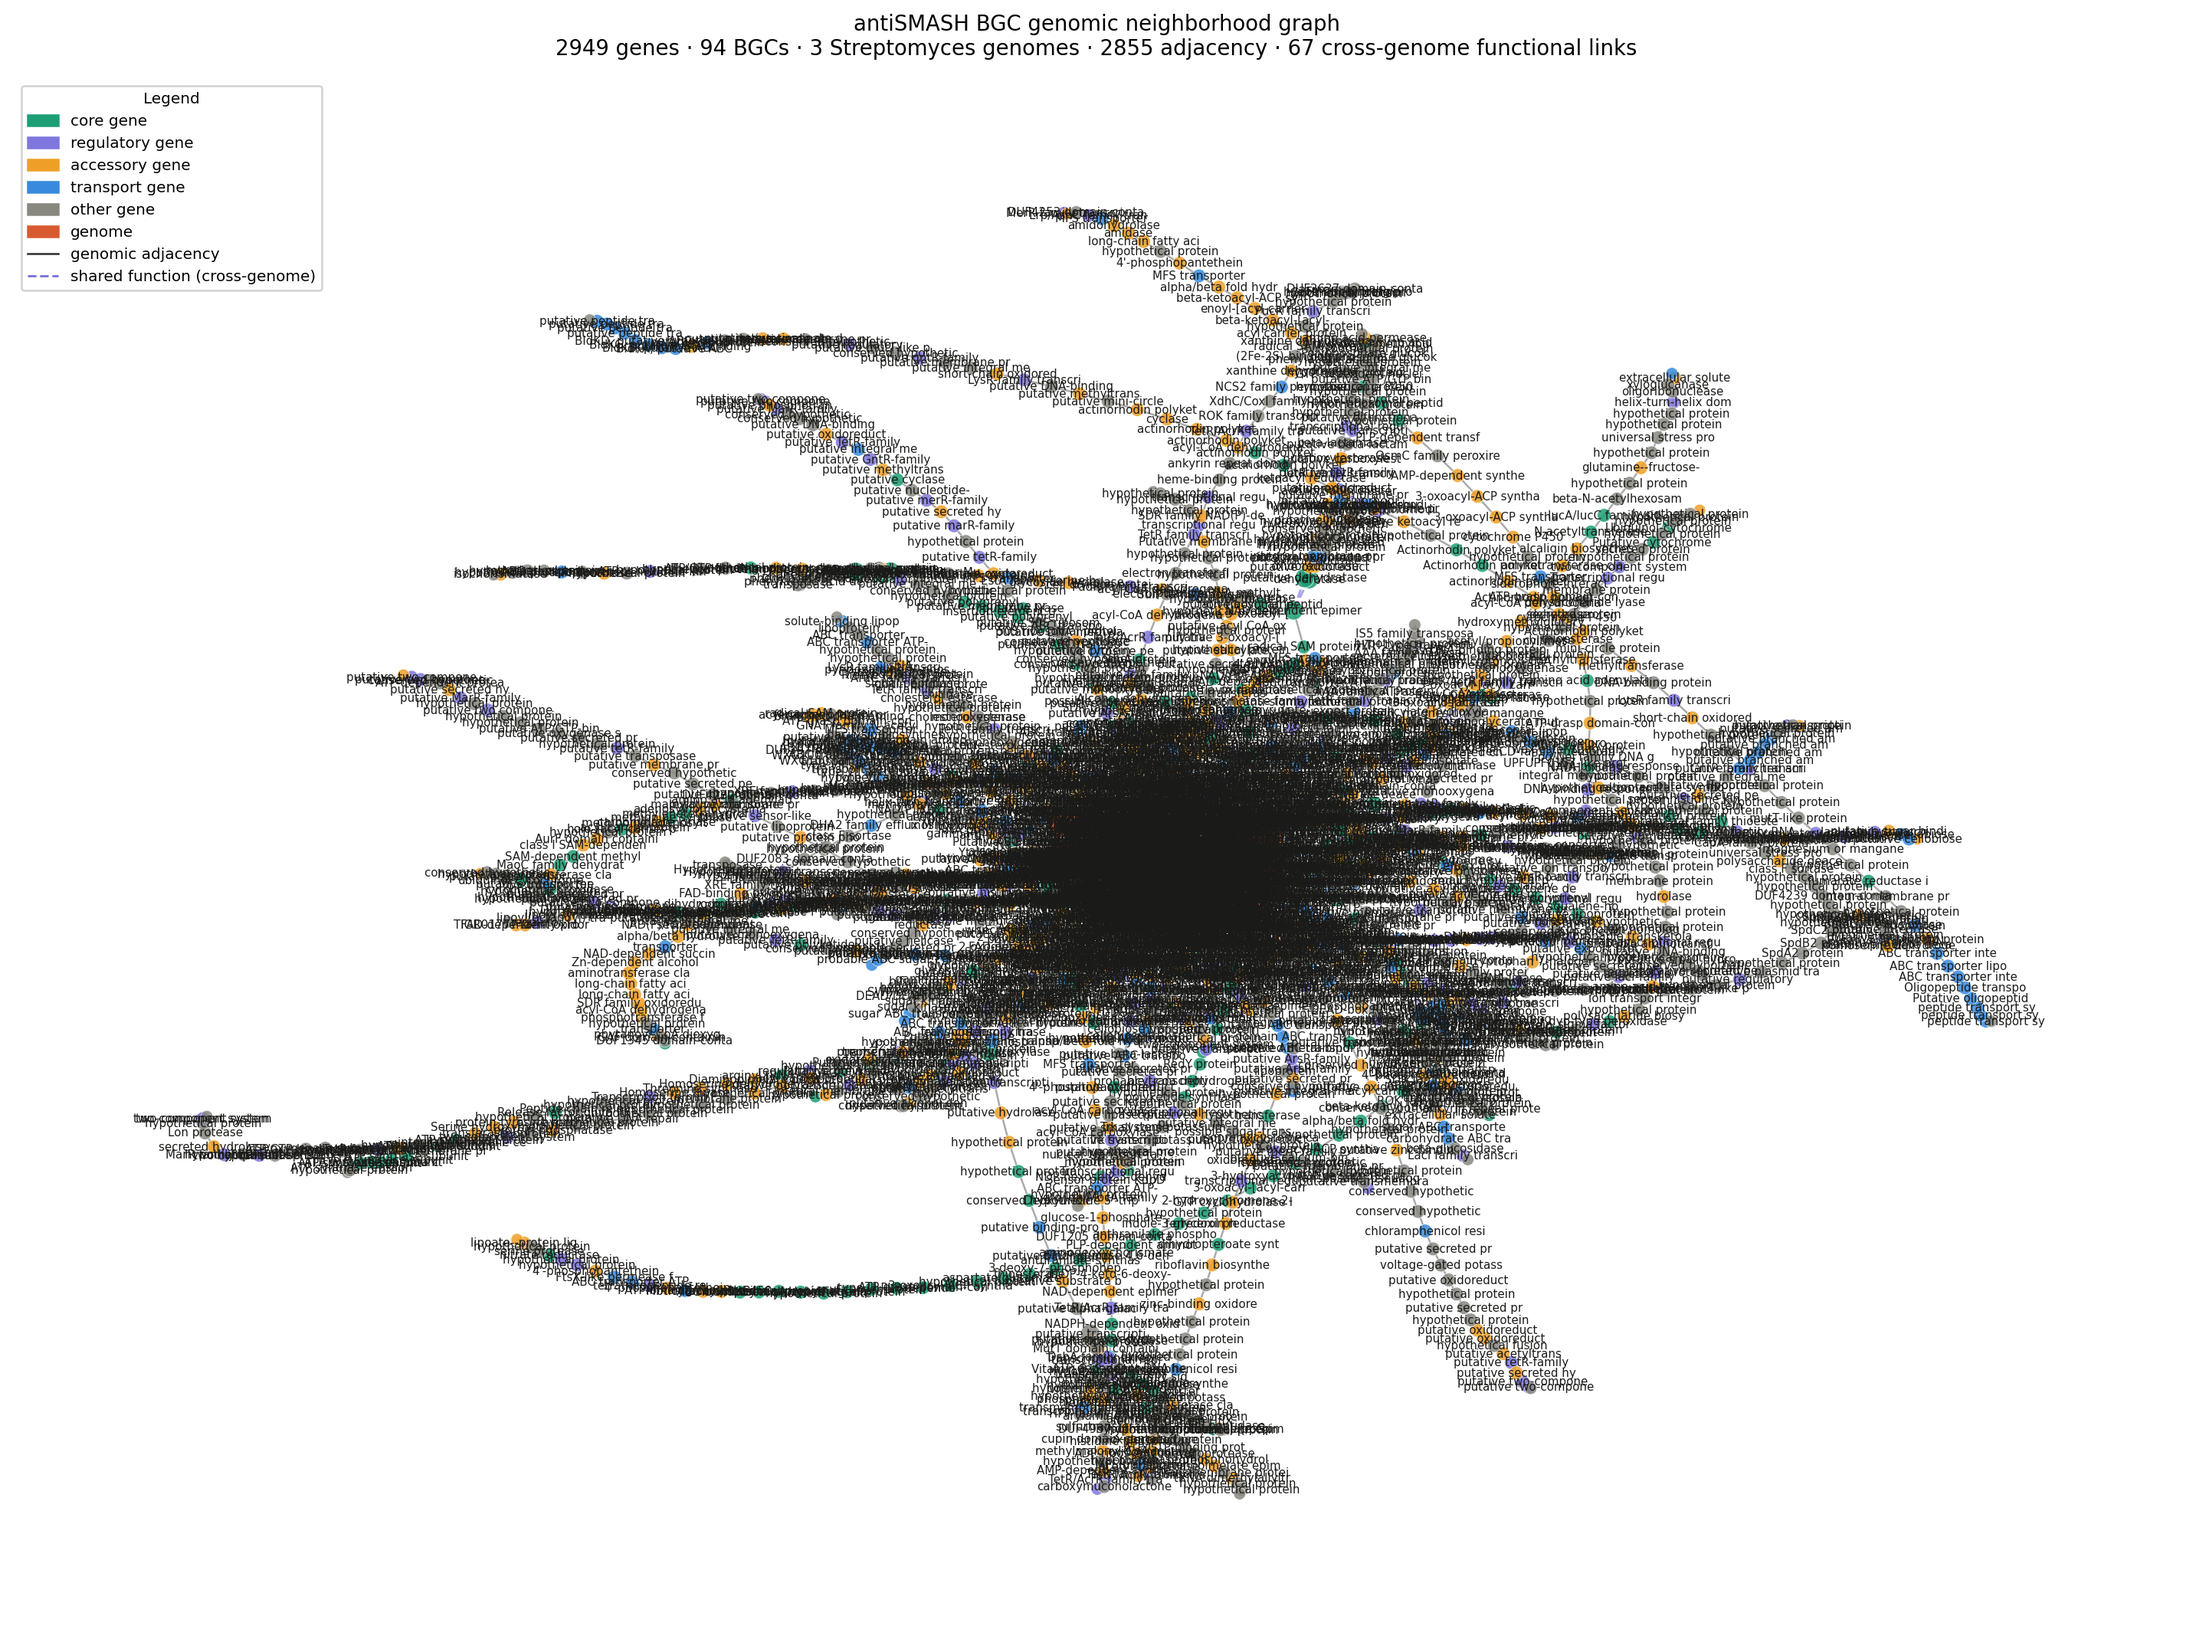
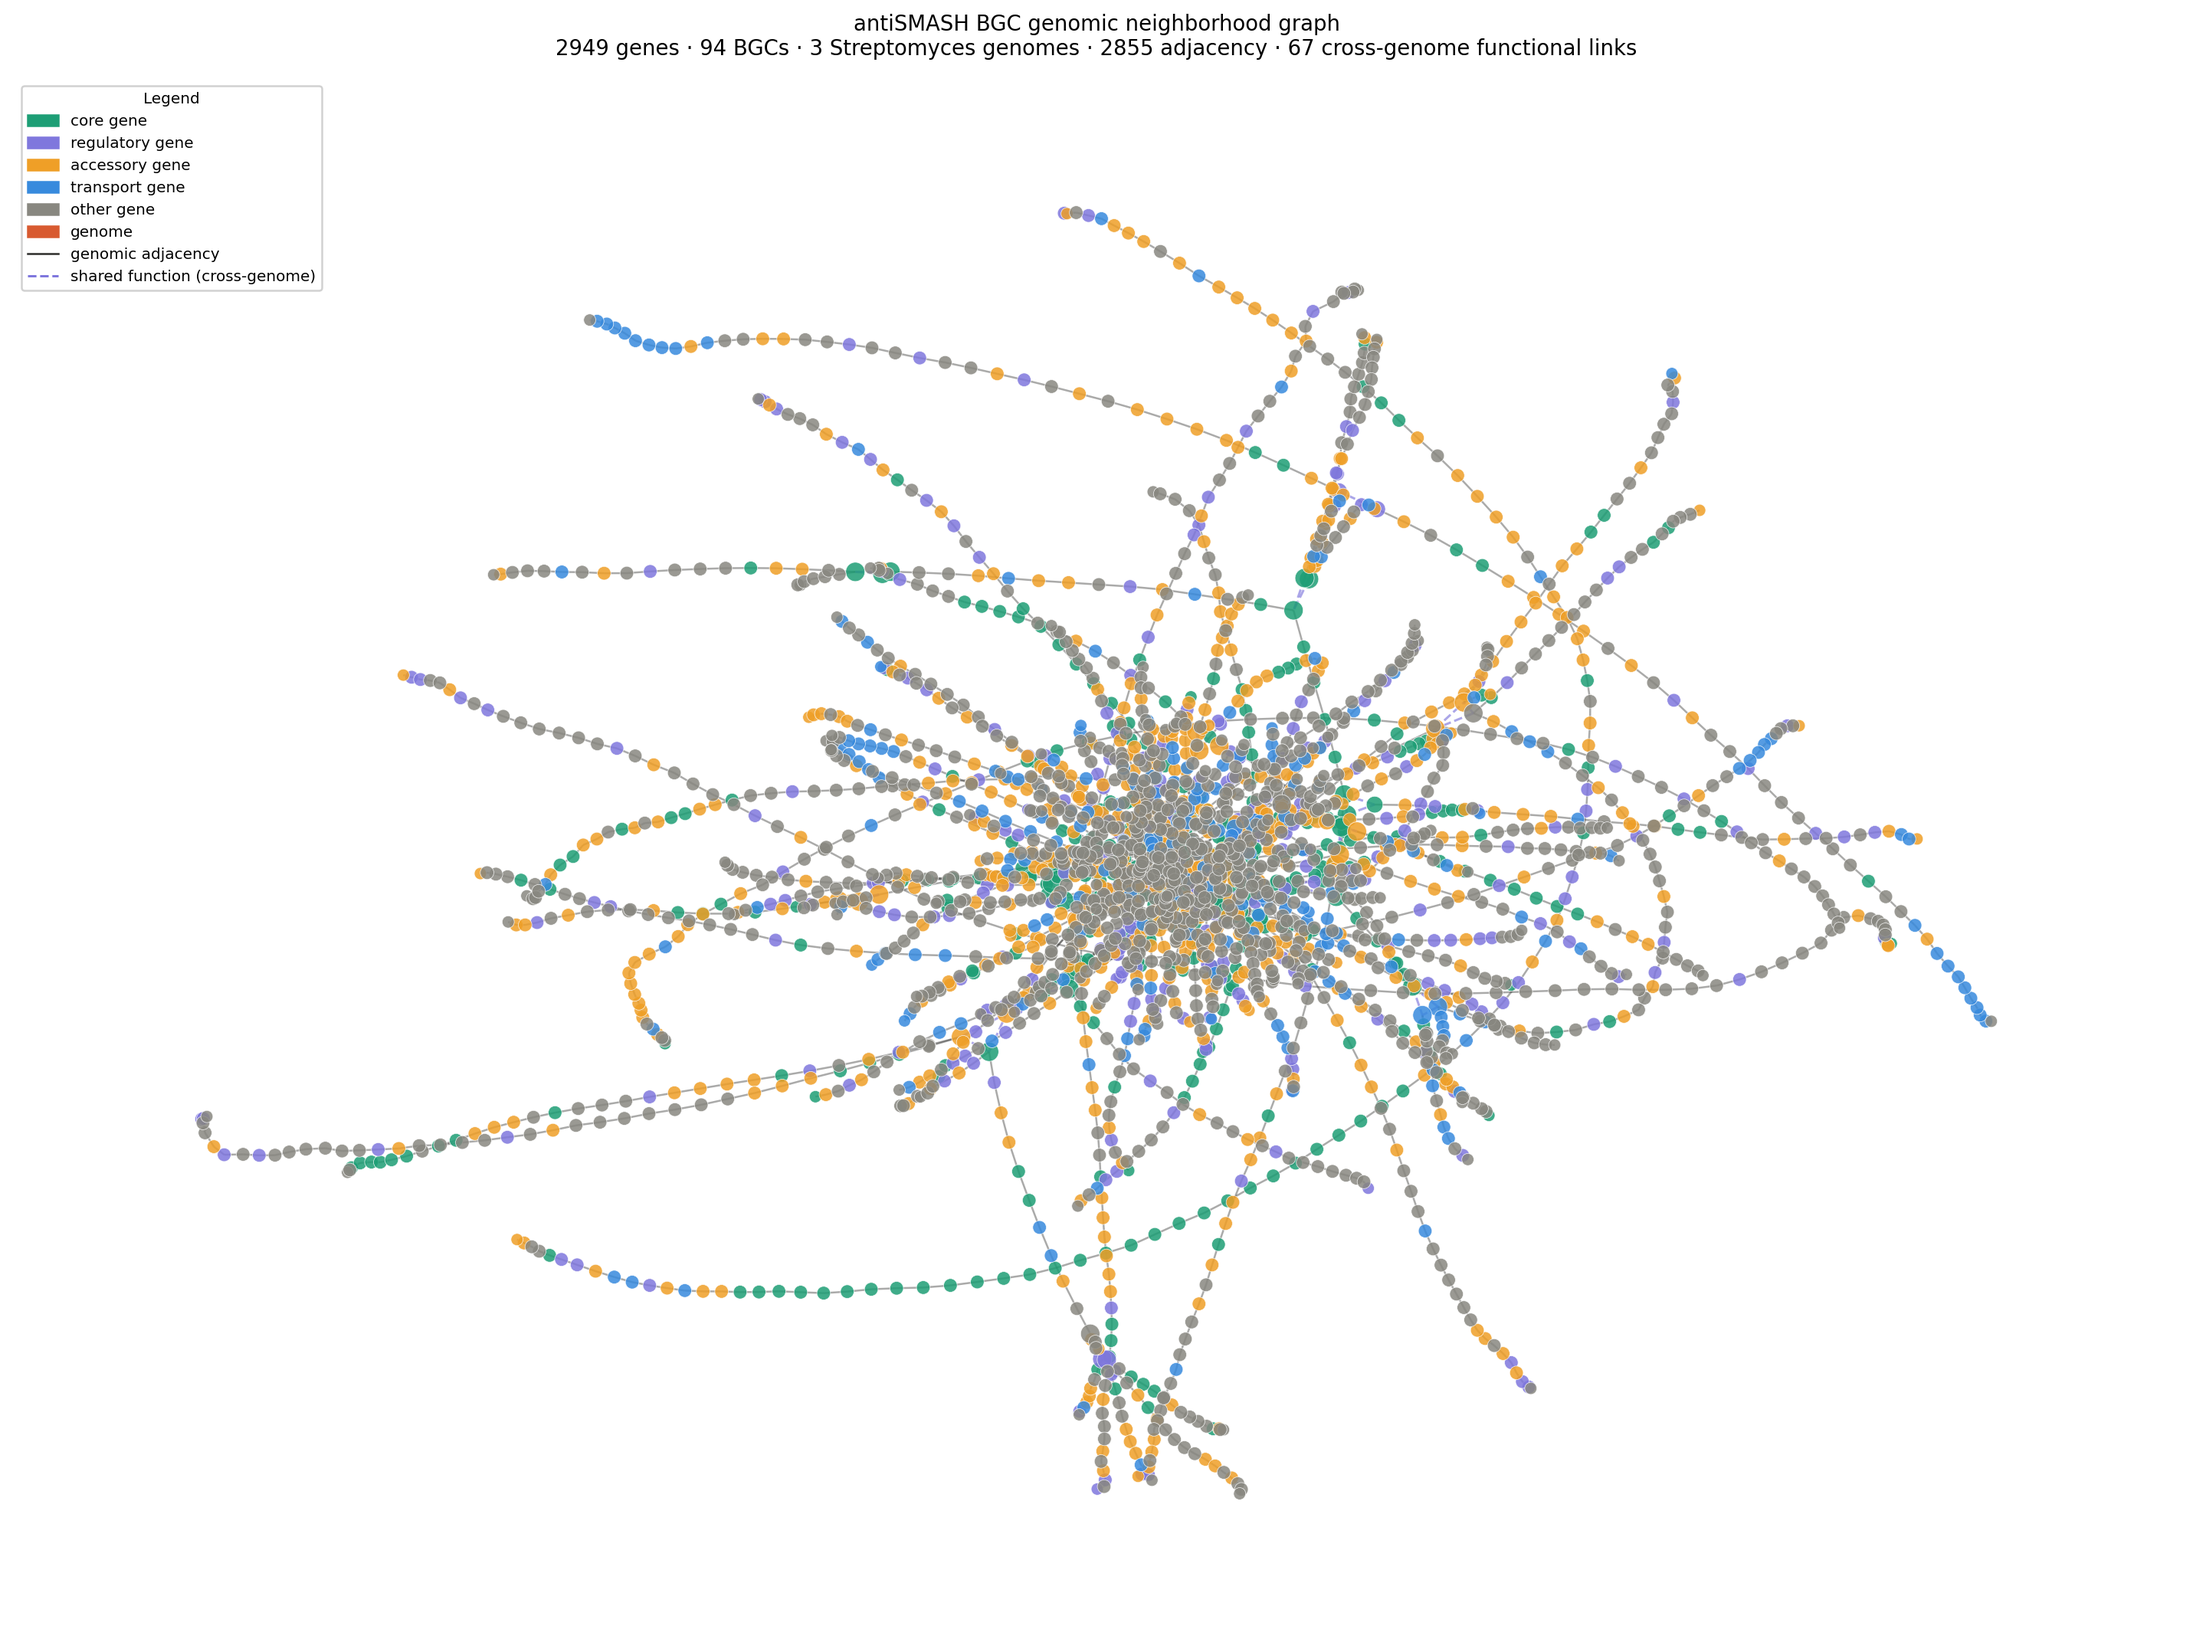
removed labels and genome nodes from static PNG graphs for cleaner viewing

Changed region(s): [[0.0622, 0.154, 0.9329, 0.9239], [0.4665, 0.1232, 0.5287, 0.154]]

diff --git a/05b_antismash_graph.py b/05b_antismash_graph.py
@@ -404,19 +404,21 @@ def export_static(G: nx.Graph, out_path: Path):
                                node_color=color, node_size=sizes,
                                alpha=0.85, linewidths=0.3, edgecolors="white")
 
-    if genome_nodes:
-        nx.draw_networkx_nodes(G, pos, nodelist=genome_nodes, ax=ax,
-                               node_color=GENOME_COLOR, node_size=800,
-                               node_shape="s", alpha=0.95)
-        nx.draw_networkx_labels(G, pos,
-                                labels={n: G.nodes[n]["label"] for n in genome_nodes},
-                                ax=ax, font_size=8, font_color="white", font_weight="bold")
+    # UNCOMMENT TO ADD the 3 GENOME SQUARE NODES WITH LABELS
+    # if genome_nodes:
+    #     nx.draw_networkx_nodes(G, pos, nodelist=genome_nodes, ax=ax,
+    #                            node_color=GENOME_COLOR, node_size=800,
+    #                            node_shape="s", alpha=0.95)
+    #     nx.draw_networkx_labels(G, pos,
+    #                             labels={n: G.nodes[n]["label"] for n in genome_nodes},
+    #                             ax=ax, font_size=8, font_color="white", font_weight="bold")
 
     threshold = np.percentile([degrees[n] for n in gene_nodes], 85) if gene_nodes else 0
-    gene_labels = {n: G.nodes[n].get("product", "")[:20]
-                   for n in gene_nodes if degrees[n] >= threshold}
-    nx.draw_networkx_labels(G, pos, labels=gene_labels, ax=ax,
-                            font_size=6, font_color="#1A1A18")
+    # UNCOMMENT TO ADD LABELS TO STATIC GRAPH
+    # gene_labels = {n: G.nodes[n].get("product", "")[:20]
+    #                for n in gene_nodes if degrees[n] >= threshold}
+    # nx.draw_networkx_labels(G, pos, labels=gene_labels, ax=ax,
+    #                         font_size=6, font_color="#1A1A18")
 
     patches = [mpatches.Patch(color=c, label=f"{r} gene") for r, c in ROLE_COLORS.items()]
     patches += [mpatches.Patch(color=GENOME_COLOR, label="genome"),

diff --git a/05_knowledge_graph.py b/05_knowledge_graph.py
@@ -192,9 +192,10 @@ def export_static(G, out_path):
                                node_color=color, node_size=sizes, alpha=0.85,
                                linewidths=0.4, edgecolors="white")
     threshold = np.percentile(list(degrees.values()), 80)
-    labels = {n: G.nodes[n].get("annotation","")[:22]
-              for n in G.nodes() if degrees[n] >= threshold}
-    nx.draw_networkx_labels(G, pos, labels=labels, ax=ax, font_size=6, font_color="#1A1A18")
+    # UNCOMMENT TO ADD LABELS TO STATIC GRAPH
+    # labels = {n: G.nodes[n].get("annotation","")[:22]
+    #           for n in G.nodes() if degrees[n] >= threshold}
+    # nx.draw_networkx_labels(G, pos, labels=labels, ax=ax, font_size=6, font_color="#1A1A18")
     patches = [mpatches.Patch(color=c, label=f"{r} protein") for r,c in ROLE_COLORS.items()]
     patches += [plt.Line2D([0],[0], color="#2C2C2A", lw=1.2, label="genomic adjacency"),
                 plt.Line2D([0],[0], color="#7F77DD", lw=1.0, linestyle="dashed", label="shared function (cross-BGC)")]
